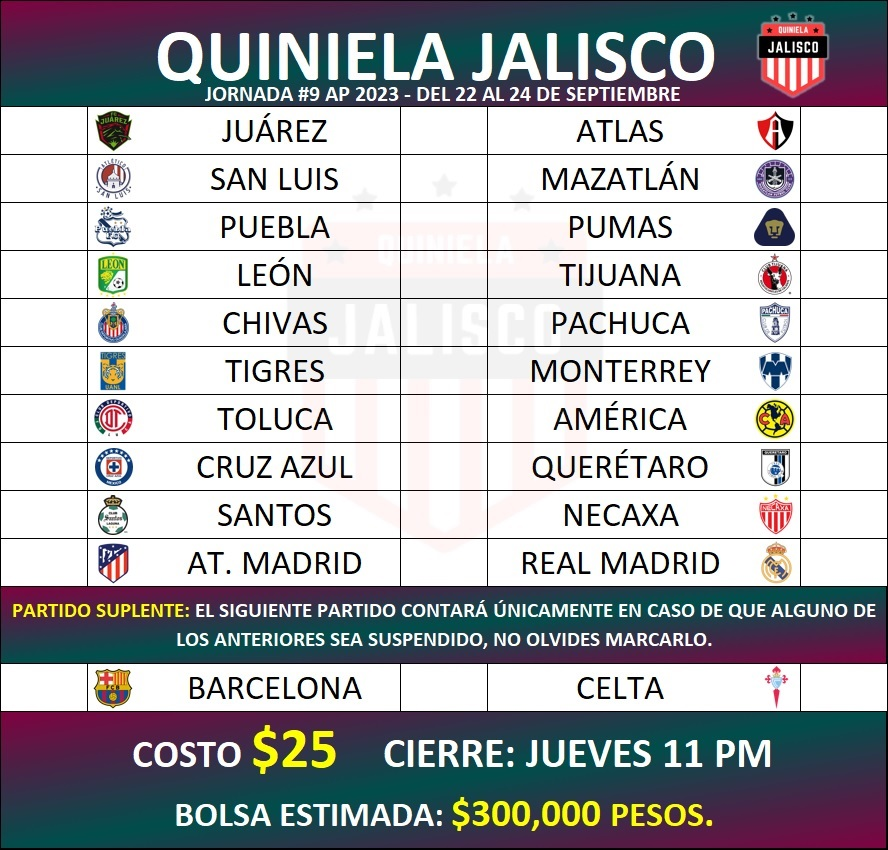
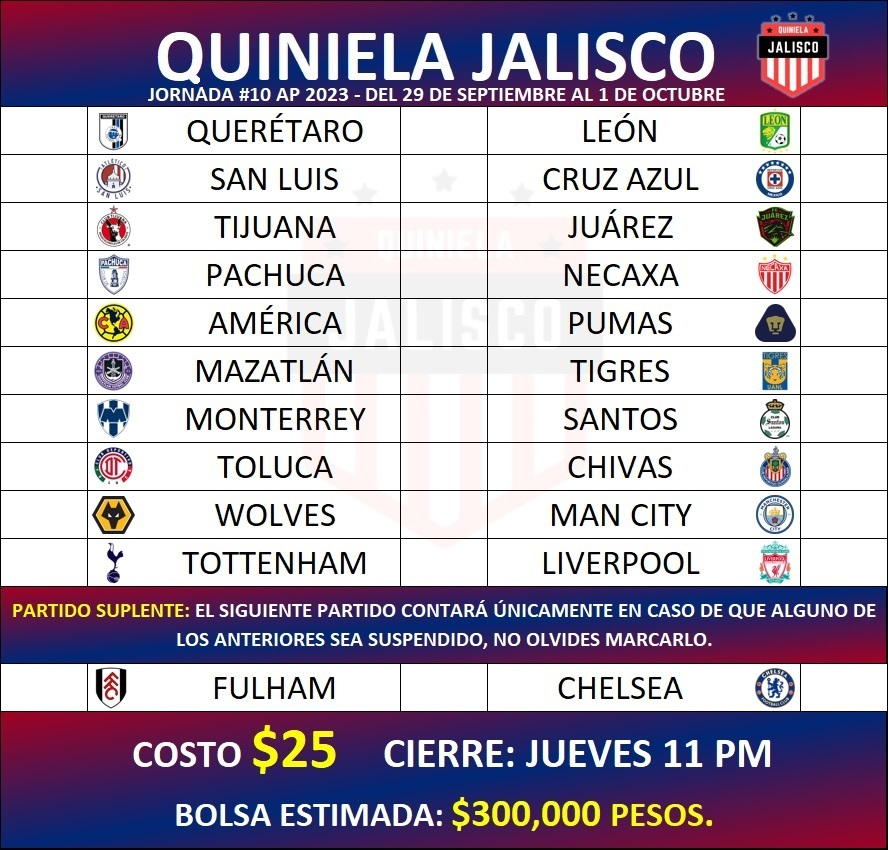
Jornada 10 A23

diff --git a/11/styles11.css b/11/styles11.css
@@ -94,8 +94,8 @@ body{
     margin-top: 9%;
     border-top: solid 1px black;
     border-radius: 0 0 14px 14px;
-    background: -webkit-linear-gradient(0.49turn, rgb(110,13,67) -28% ,rgb(5,75,75) 110%);
-    background: linear-gradient(0.49turn, rgb(110,13,67) -28% ,rgb(5,75,75) 110%);
+    background: -webkit-linear-gradient(0.49turn, rgb(110,13,67) -28% ,rgb(3,39,117) 110%);
+    background: linear-gradient(0.49turn, rgb(110,13,67) -28% ,rgb(3,39,117) 110%);
 }
 
 .text-lg{
